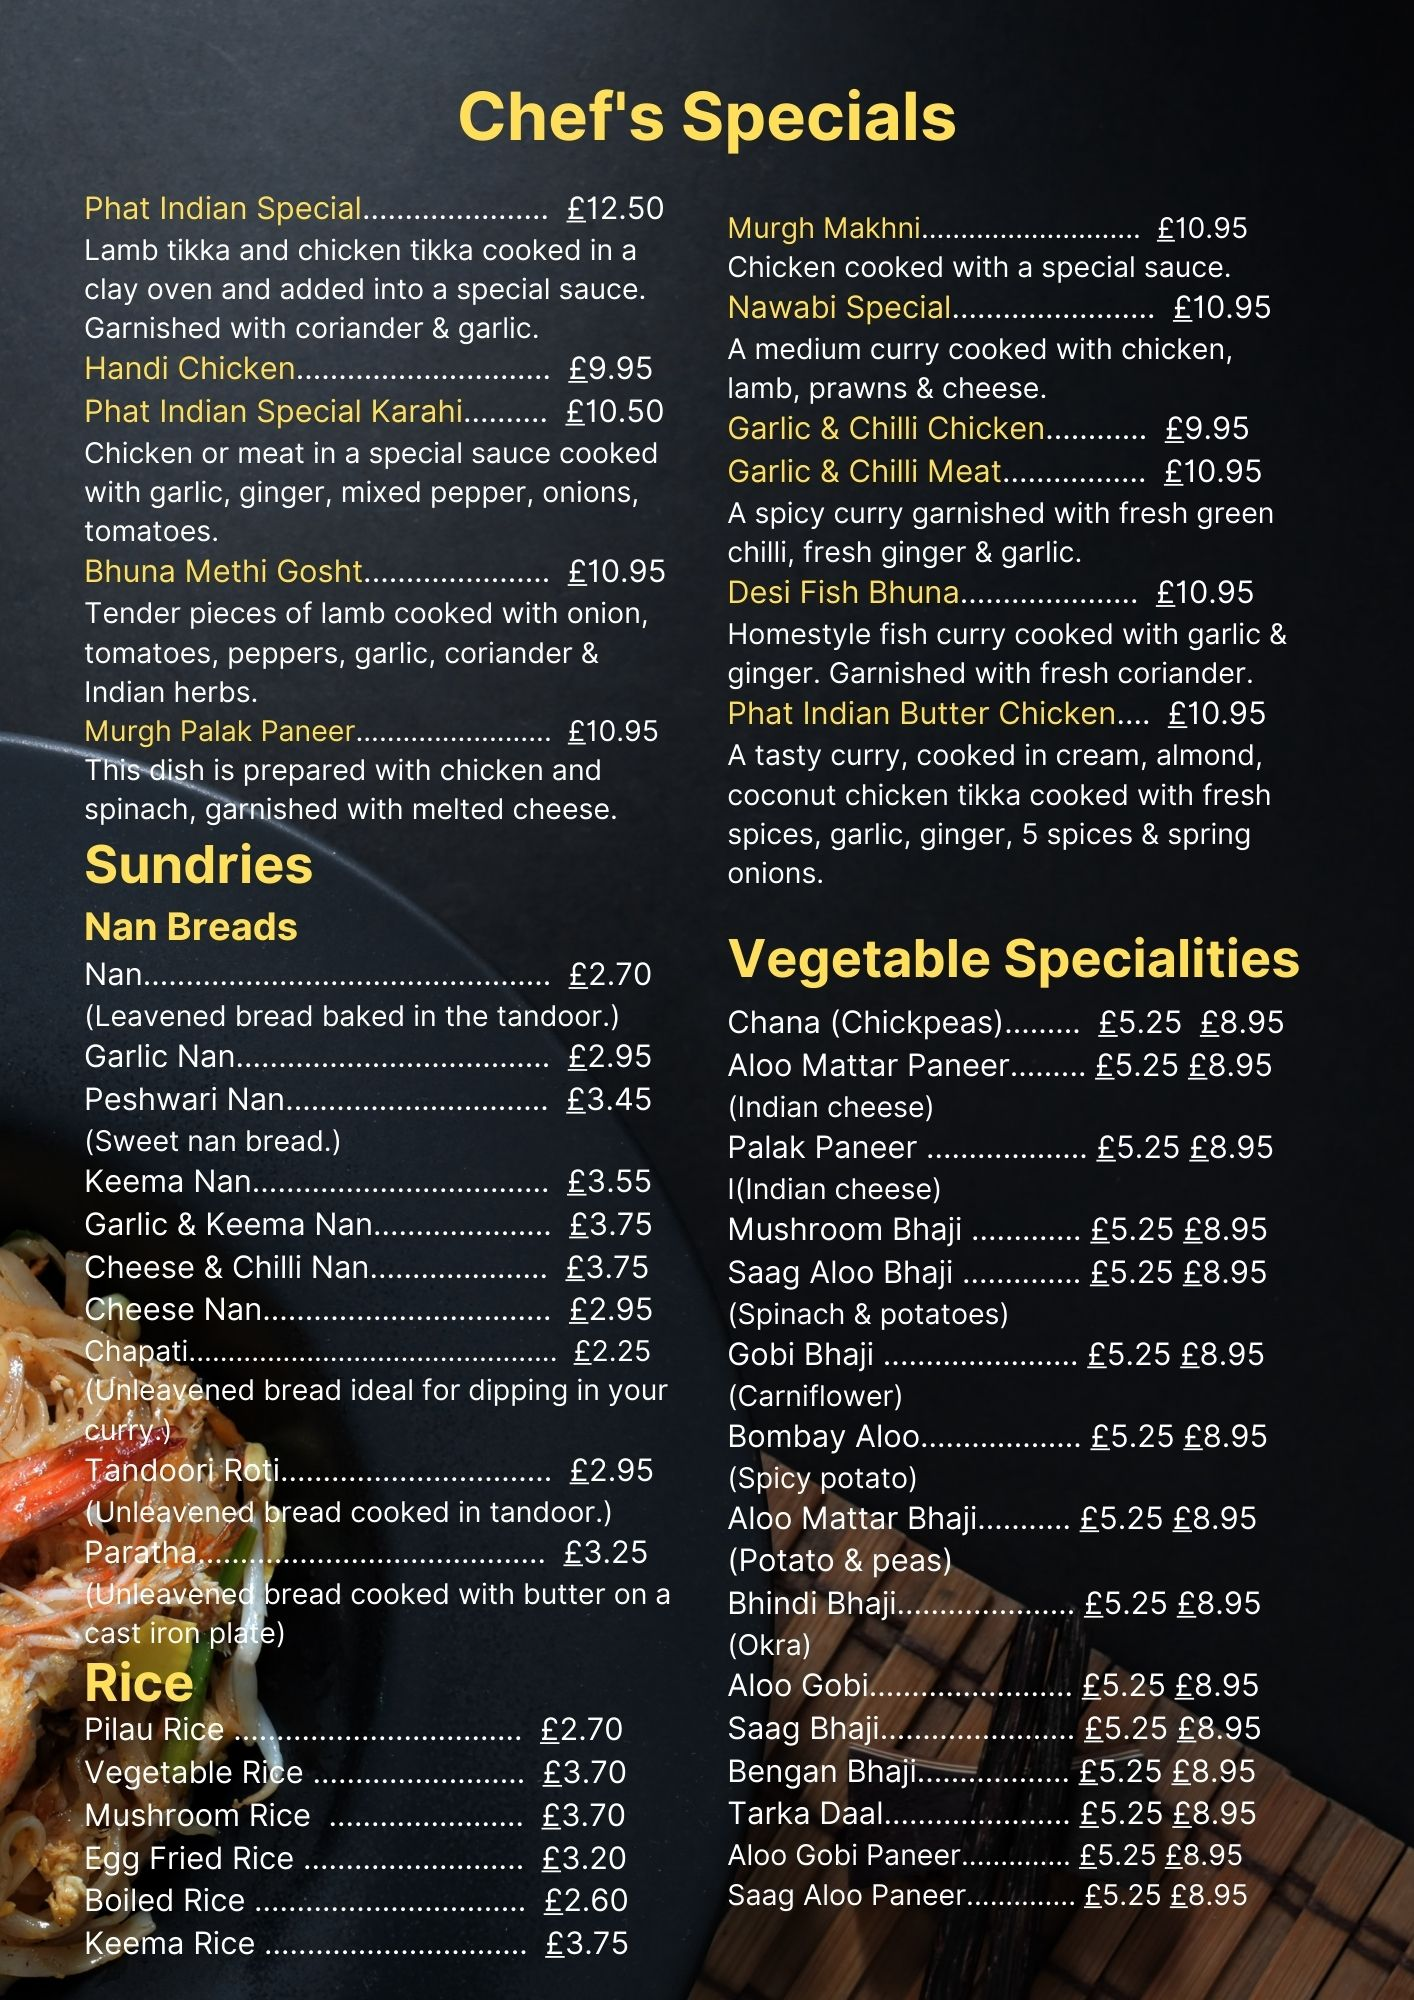
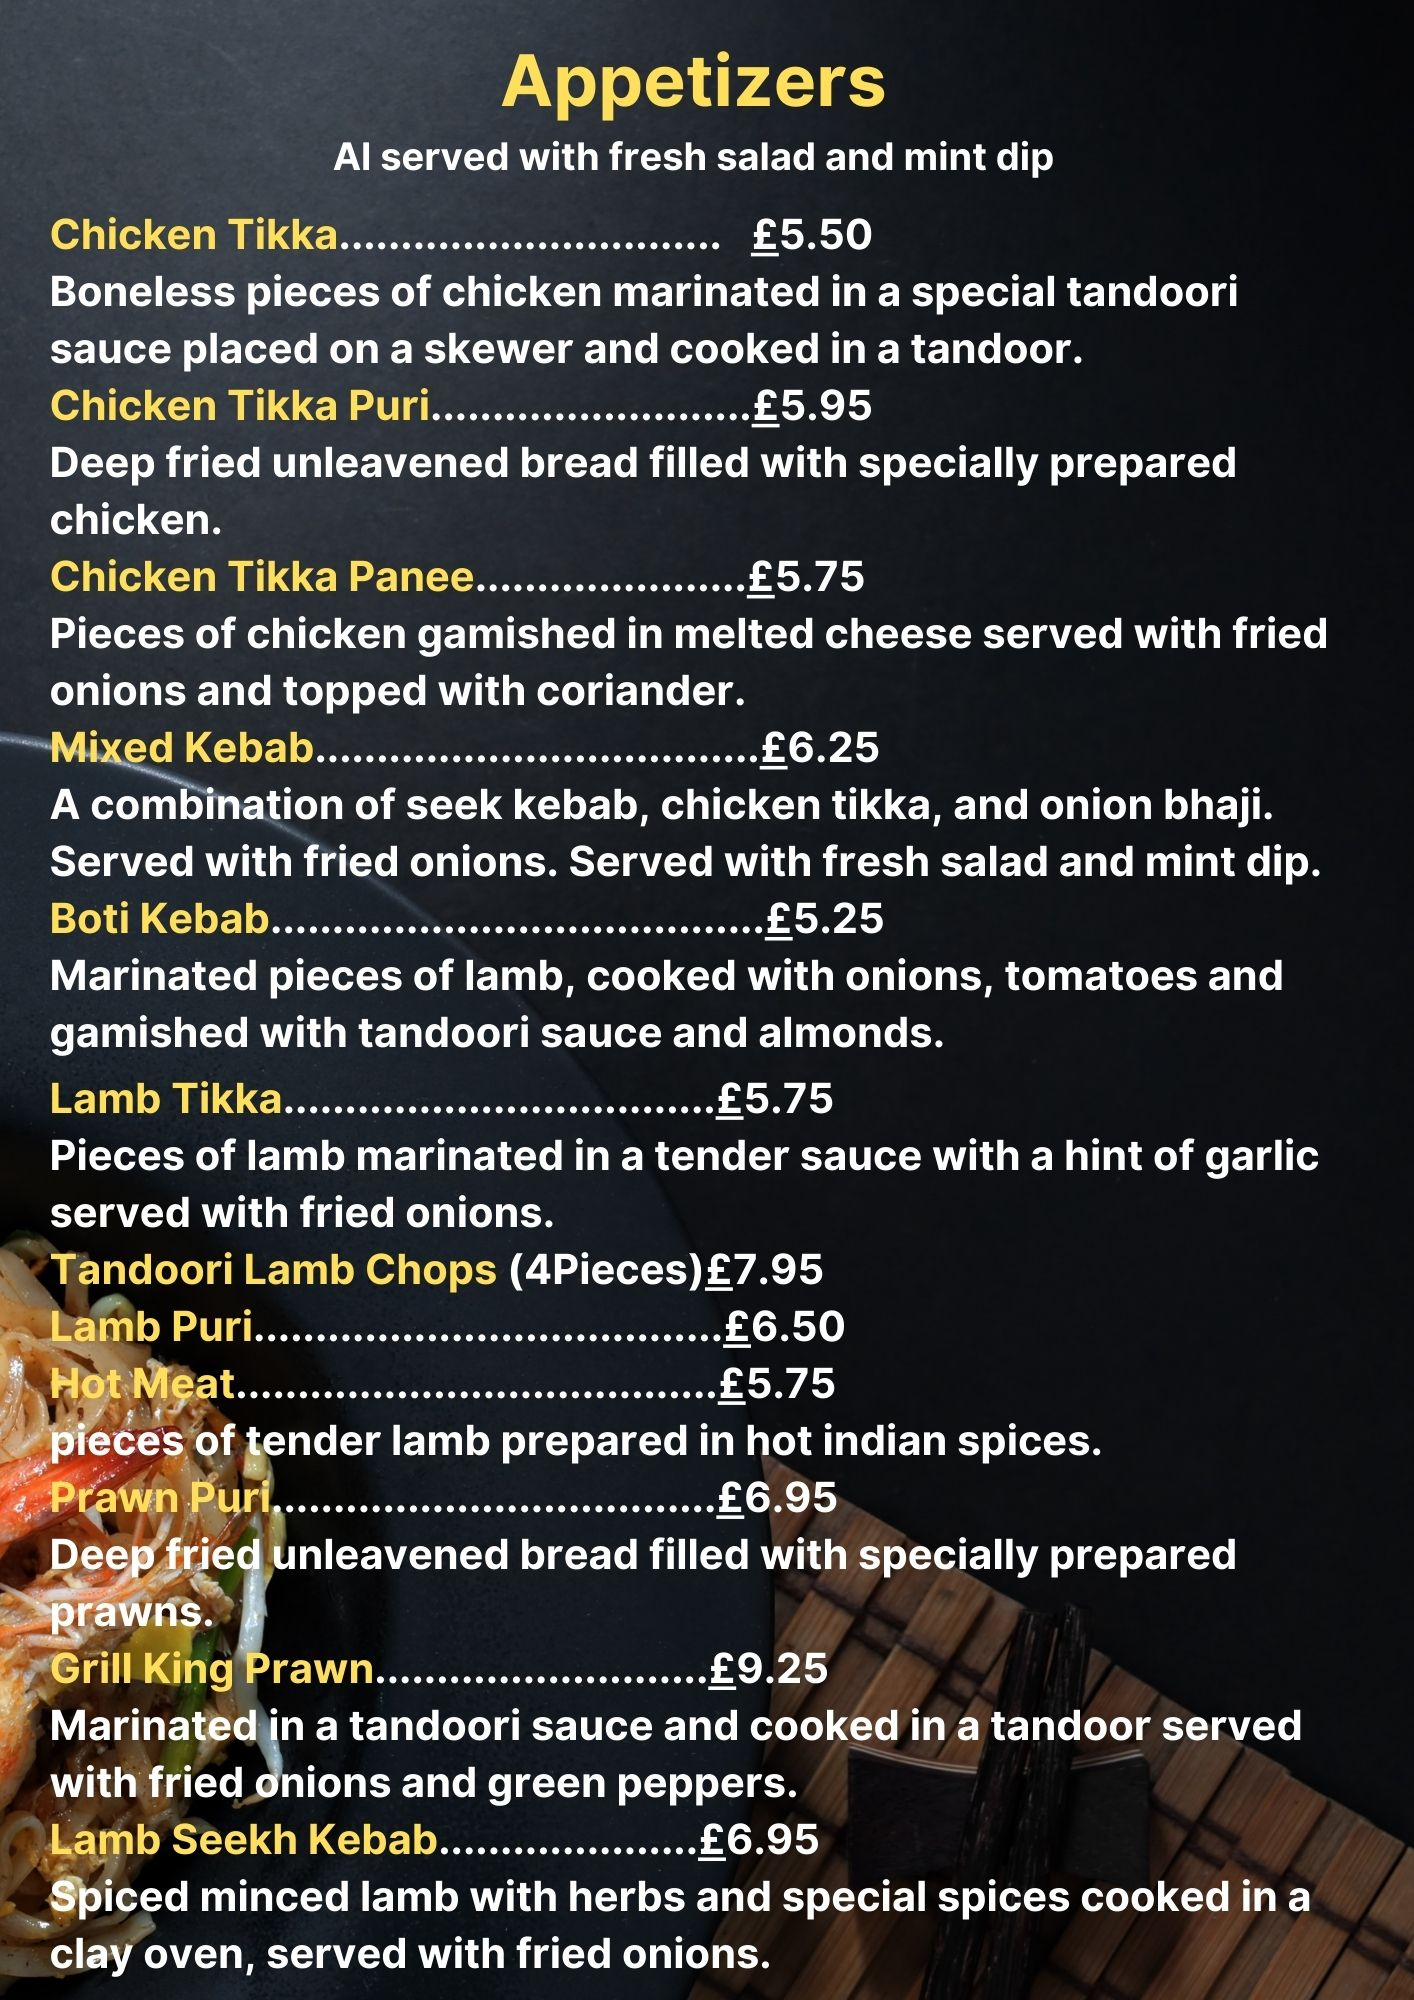
font size of menu increased

Changed region(s): [[0.0311, 0.031, 0.9335, 0.992]]

diff --git a/src/components/ImageGallery.jsx b/src/components/ImageGallery.jsx
@@ -2,10 +2,6 @@ import React from "react";
 import styles from "../styles/ImageGallery.module.css"; // Import the CSS module
 
 const ImageGallery = () => {
-
-
-
-
   const images = [
     require("../assets/menu/one.jpg"),
     require("../assets/menu/two.jpg"),
@@ -13,19 +9,29 @@ const ImageGallery = () => {
     require("../assets/menu/four.jpg"),
     require("../assets/menu/five.jpg"),
     require("../assets/menu/six.jpg"),
+    require("../assets/menu/seven.jpg"),
+    require("../assets/menu/eight.jpg"),
+    require("../assets/menu/nine.jpg"),
+    require("../assets/menu/ten.jpg"),
   ];
 
-
-
-
-
-
   return (
-    <div className={styles.imageGallery}> {/* Apply CSS module class */}
-      <div className={styles.imageGalleryContainer}> {/* Apply CSS module class */}
+    <div className={styles.imageGallery}>
+      {" "}
+      {/* Apply CSS module class */}
+      <div className={styles.imageGalleryContainer}>
+        {" "}
+        {/* Apply CSS module class */}
         {images.map((image, index) => (
-          <div key={index} className={styles.imageContainer}> {/* Apply CSS module class */}
-            <img src={image} alt={`Image ${index + 1}`} className={styles.image} /> {/* Apply CSS module class */}
+          <div key={index} className={styles.imageContainer}>
+            {" "}
+            {/* Apply CSS module class */}
+            <img
+              src={image}
+              alt={`Image ${index + 1}`}
+              className={styles.image}
+            />{" "}
+            {/* Apply CSS module class */}
           </div>
         ))}
       </div>
